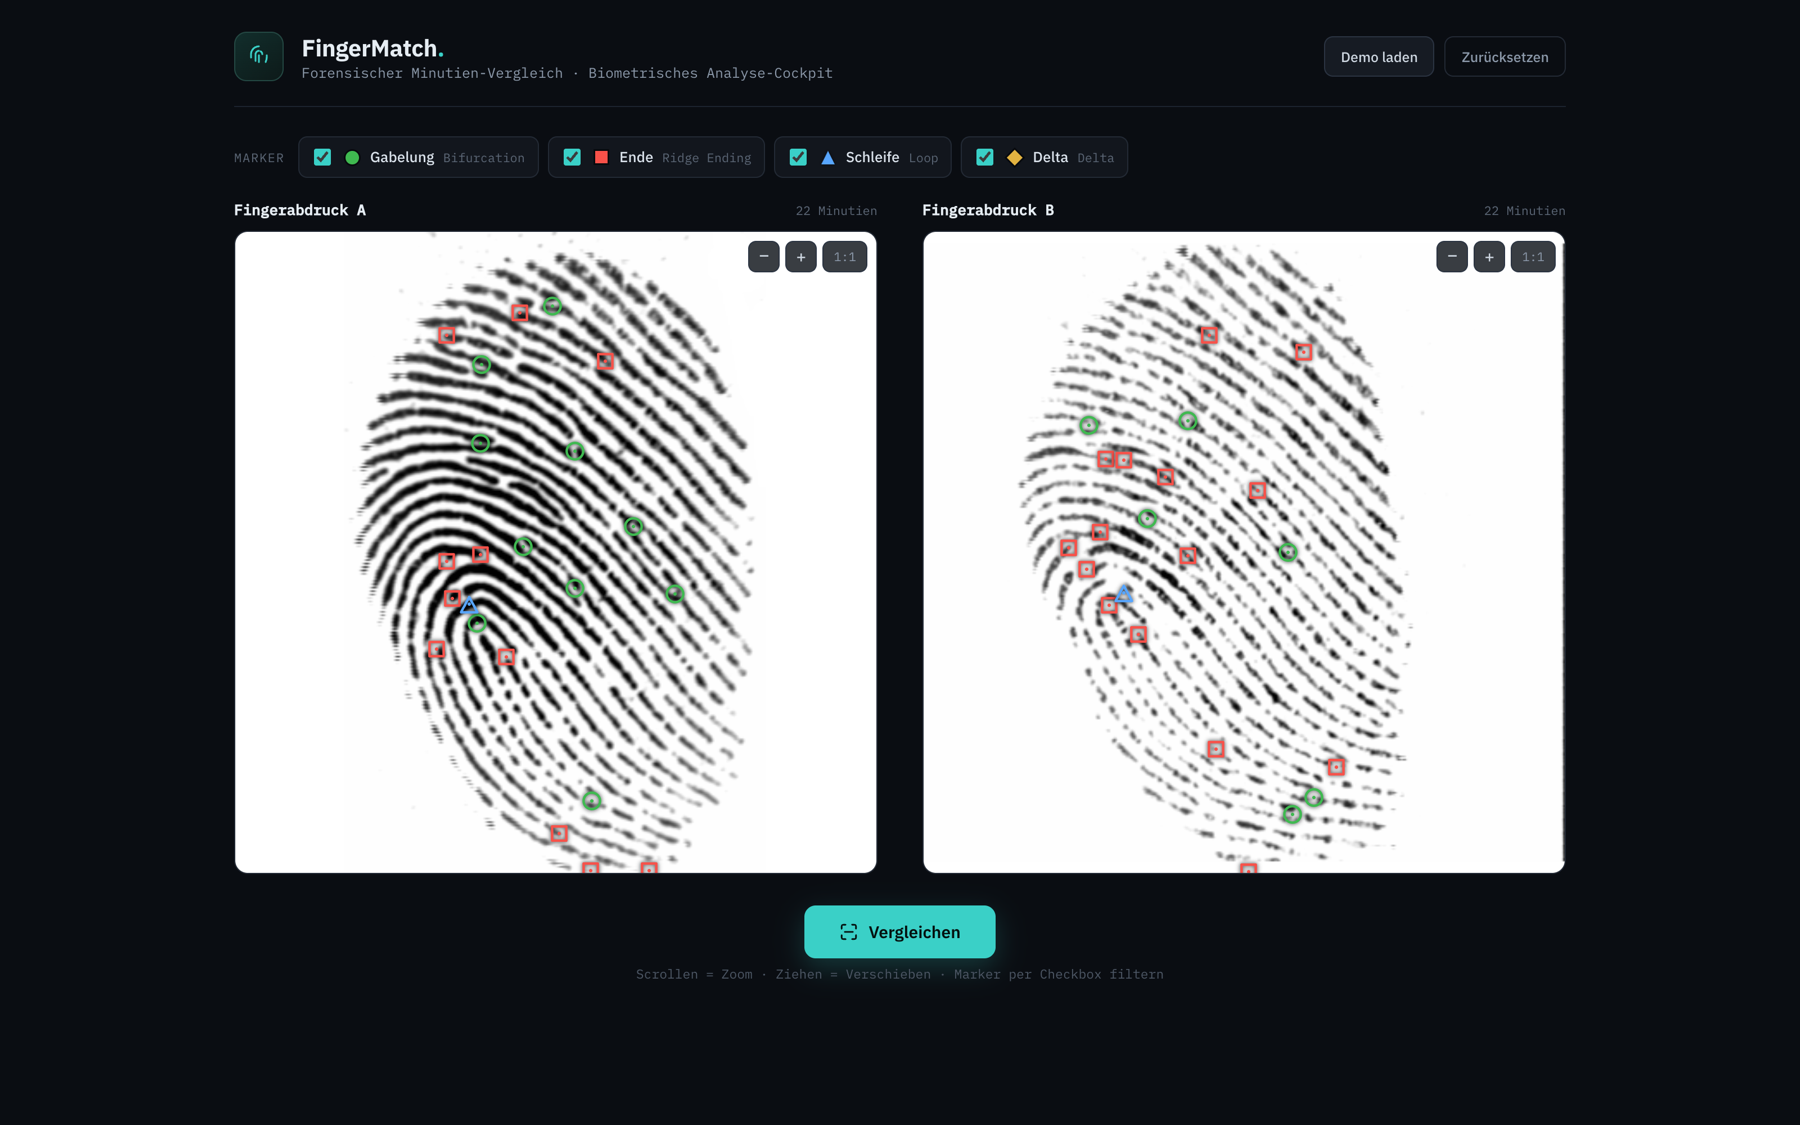
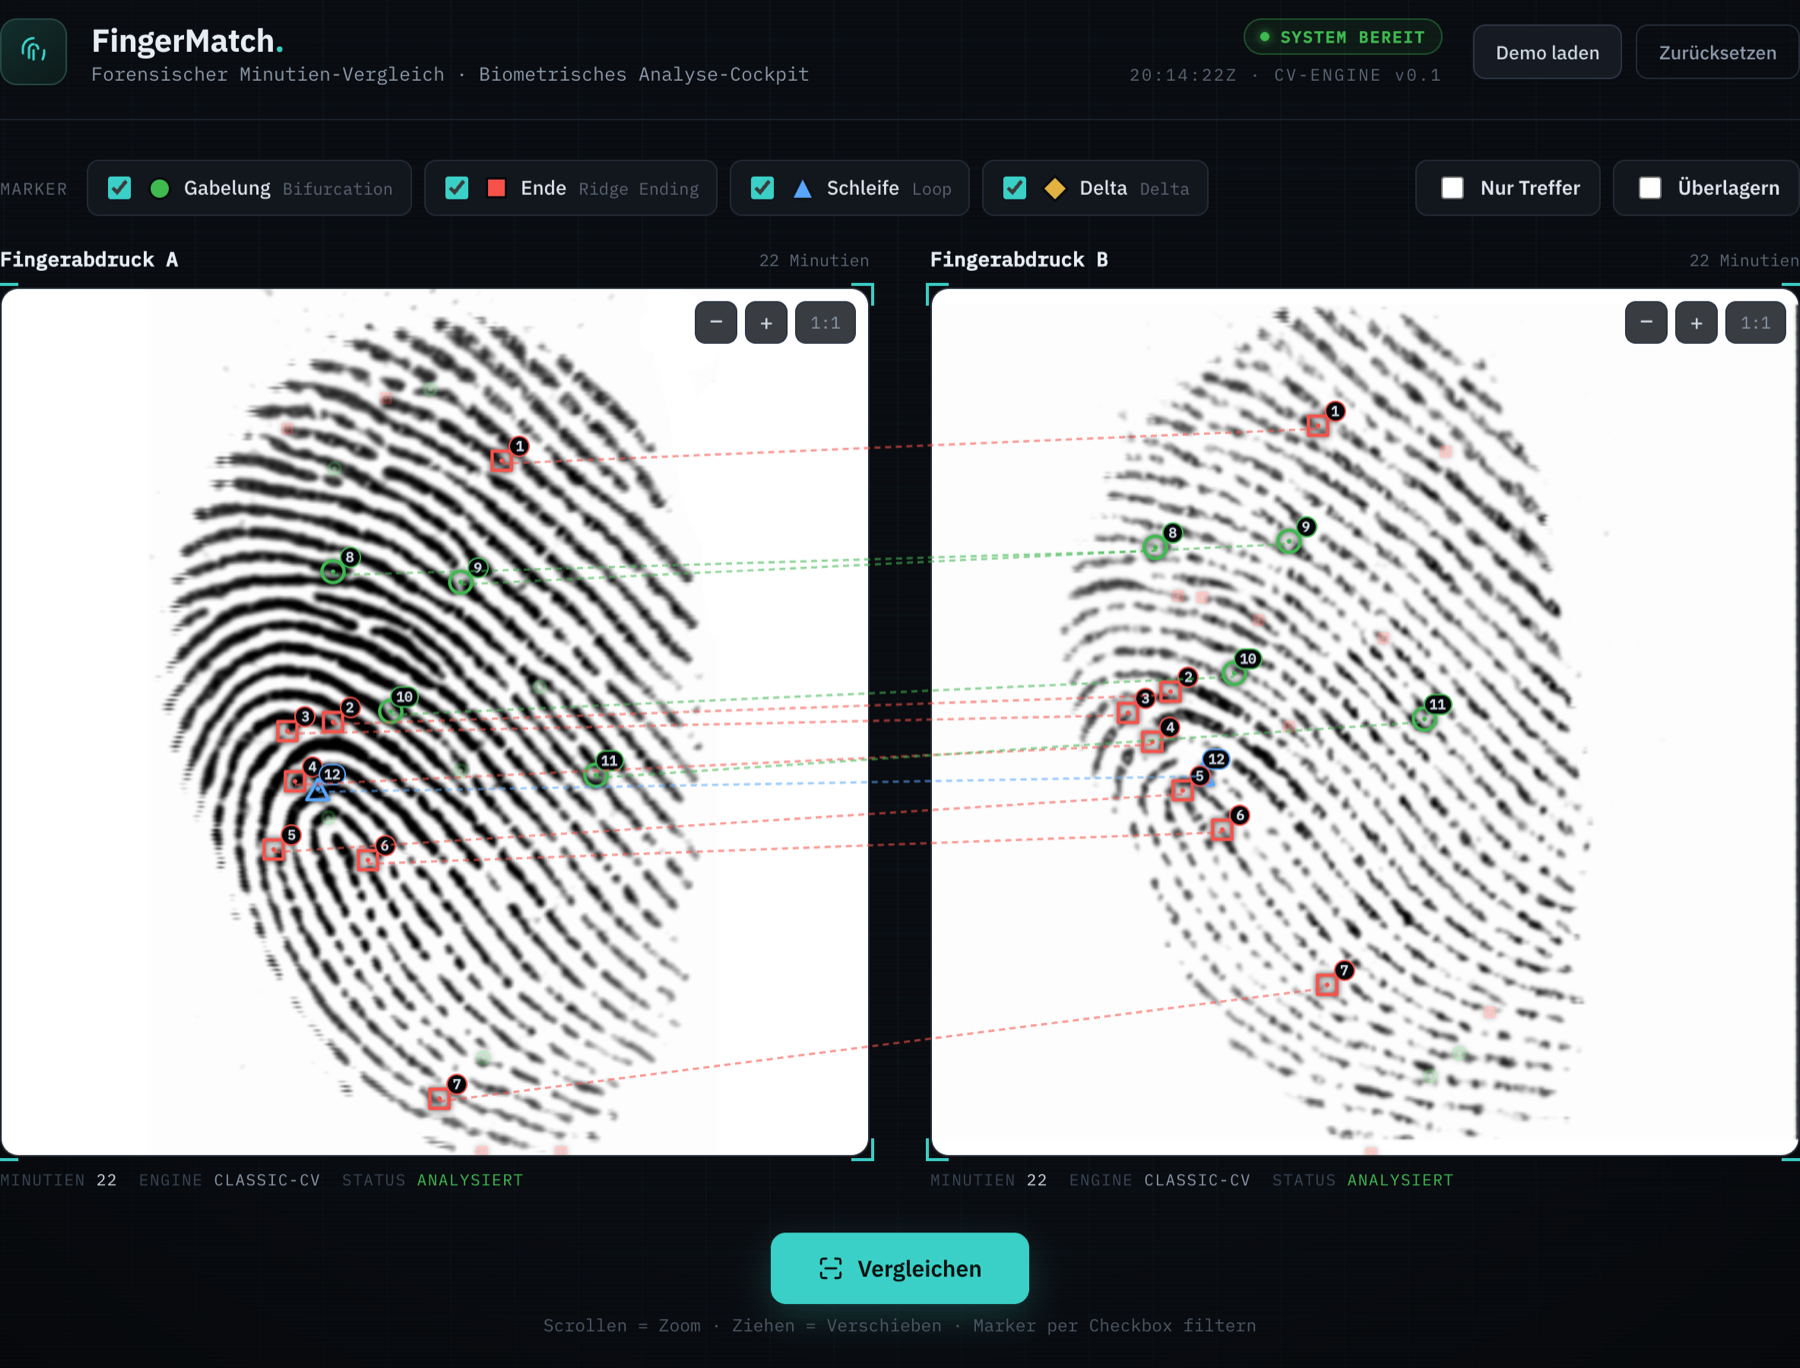
Compact projects grid + refreshed FingerMatch screenshots
Replace the two large stacked showcase cards with a compact 2-column grid of
ProjectCard (screenshot on top, condensed meta below, whole-card link) — much
shorter, and now surfaces the FingerMatch screenshot alongside ApplyX.

Recapture the FingerMatch app after its redesign (SYSTEM BEREIT status,
timestamp, reticle brackets, per-panel status footers, ABGLEICH-ERGEBNIS
result card) and refresh the detail-page assets (match / result / cockpit)
plus a card thumbnail. Remove the now-unused FeaturedProjectShowcase.

diff --git a/src/components/projects/ProjectCard.tsx b/src/components/projects/ProjectCard.tsx
@@ -1,0 +1,122 @@
+'use client';
+
+import type { Project } from '@/types/project';
+import { Badge } from '@/components/ui/badge';
+import { ArrowRight, ExternalLink, Github } from 'lucide-react';
+import Image from 'next/image';
+import Link from 'next/link';
+import { useLocale, useTranslations } from 'next-intl';
+
+interface ProjectCardProps {
+  project: Project;
+}
+
+/**
+ * A compact, vertical project card: screenshot on top, condensed meta below.
+ * The whole card links to the detail page (the "take the tour" cue labels it);
+ * the live/code buttons sit above the stretched link at a higher z-index.
+ */
+export function ProjectCard({ project }: ProjectCardProps) {
+  const t = useTranslations('projects');
+  const locale = useLocale();
+
+  const techItems = (project.tech || project.technologies?.map(i => i.name) || []).slice(0, 4);
+  const detailHref = project.slug ? `/${locale}/projects/${project.slug}` : undefined;
+
+  return (
+    <article className="group relative flex flex-col overflow-hidden rounded-2xl border border-border/40 bg-card/55 ring-1 ring-white/[0.05] backdrop-blur-xl transition-[box-shadow,border-color,transform] duration-300 hover:-translate-y-0.5 hover:border-primary/40 hover:shadow-[0_24px_60px_-30px_rgba(0,0,0,0.7)]">
+      {detailHref ? (
+        <Link
+          href={detailHref}
+          aria-label={t('takeTour')}
+          className="absolute inset-0 z-10 rounded-2xl focus-visible:outline-none focus-visible:ring-2 focus-visible:ring-primary"
+        />
+      ) : null}
+
+      <div className="relative aspect-[16/9] overflow-hidden border-b border-border/40">
+        <Image
+          src={project.image || project.thumbnail || '/placeholder-project.jpg'}
+          alt={project.title}
+          fill
+          className="object-cover object-top transition-transform duration-500 group-hover:scale-[1.04]"
+          sizes="(max-width: 768px) 100vw, 50vw"
+        />
+        <div className="pointer-events-none absolute inset-0 bg-gradient-to-t from-card/80 via-transparent to-transparent" />
+        <Badge
+          variant="outline"
+          className="absolute left-3 top-3 border-accent-violet/30 bg-background/70 text-accent-violet backdrop-blur"
+        >
+          {t(`categories.${project.category}`)}
+        </Badge>
+      </div>
+
+      <div className="flex flex-1 flex-col gap-3 p-5">
+        <div>
+          <h3 className="font-display text-xl font-bold tracking-tight text-foreground transition-colors group-hover:text-primary">
+            {project.title}
+          </h3>
+          {project.subtitle ? (
+            <p className="mt-0.5 text-sm font-medium text-primary">{project.subtitle}</p>
+          ) : null}
+        </div>
+
+        <p className="line-clamp-2 text-sm leading-relaxed text-muted-foreground">
+          {project.description}
+        </p>
+
+        {techItems.length > 0 ? (
+          <div className="flex flex-wrap gap-1.5">
+            {techItems.map(tech => (
+              <Badge
+                key={tech}
+                variant="secondary"
+                className="border-border/50 bg-muted/40 px-2 py-0.5 text-[11px] font-normal"
+              >
+                {tech}
+              </Badge>
+            ))}
+          </div>
+        ) : null}
+
+        <div className="mt-auto flex items-center justify-between gap-3 pt-2">
+          {detailHref ? (
+            <span
+              aria-hidden="true"
+              className="inline-flex items-center gap-1.5 text-sm font-semibold text-primary underline-offset-4 group-hover:underline"
+            >
+              {t('takeTour')}
+              <ArrowRight className="h-4 w-4 transition-transform duration-300 group-hover:translate-x-1" />
+            </span>
+          ) : (
+            <span />
+          )}
+
+          <div className="relative z-20 flex items-center gap-1.5">
+            {project.liveUrl ? (
+              <a
+                href={project.liveUrl}
+                target="_blank"
+                rel="noopener noreferrer"
+                aria-label={project.isApp ? t('viewApp') : t('liveDemo')}
+                className="inline-flex h-9 w-9 items-center justify-center rounded-lg bg-primary text-primary-foreground transition-colors hover:bg-primary/90"
+              >
+                <ExternalLink className="h-4 w-4" />
+              </a>
+            ) : null}
+            {project.githubUrl ? (
+              <a
+                href={project.githubUrl}
+                target="_blank"
+                rel="noopener noreferrer"
+                aria-label={t('viewCode')}
+                className="inline-flex h-9 w-9 items-center justify-center rounded-lg border border-border/60 bg-background/40 text-foreground transition-colors hover:border-border hover:bg-accent/40"
+              >
+                <Github className="h-4 w-4" />
+              </a>
+            ) : null}
+          </div>
+        </div>
+      </div>
+    </article>
+  );
+}

diff --git a/src/components/sections/ProjectsSection.tsx b/src/components/sections/ProjectsSection.tsx
@@ -4,7 +4,7 @@ import { useTranslations } from 'next-intl';
 import type { Project } from '@/types/project';
 import { FullscreenSection } from '@/components/layout/FullscreenSection';
 import { SectionHeader } from '@/components/layout/SectionHeader';
-import { FeaturedProjectShowcase } from '@/components/projects/FeaturedProjectShowcase';
+import { ProjectCard } from '@/components/projects/ProjectCard';
 import { buildApplyxProject, buildFingermatchProject } from '@/data/projects';
 import { Github } from 'lucide-react';
 
@@ -43,9 +43,9 @@ export function ProjectsSection() {
             description={t('subtitle')}
           />
 
-          <div className="flex flex-col gap-10 md:gap-14">
+          <div className="grid gap-6 sm:grid-cols-2">
             {projects.map(project => (
-              <FeaturedProjectShowcase key={project.slug} project={project} />
+              <ProjectCard key={project.slug} project={project} />
             ))}
           </div>
 

diff --git a/src/data/projects.ts b/src/data/projects.ts
@@ -47,8 +47,8 @@ export const FINGERMATCH_SLUG = 'fingermatch';
 const fingermatchBase: Omit<Project, 'title' | 'subtitle' | 'description' | 'longDescription'> = {
   id: 'fingermatch',
   slug: FINGERMATCH_SLUG,
-  image: '/projects/fingermatch/raw-a.png',
-  thumbnail: '/projects/fingermatch/raw-a.png',
+  image: '/projects/fingermatch/card.png',
+  thumbnail: '/projects/fingermatch/card.png',
   liveUrl: 'https://fingermatch.projects.manu-web.de',
   githubUrl: 'https://github.com/manusmd/fingermatch',
   repository: 'https://github.com/manusmd/fingermatch',